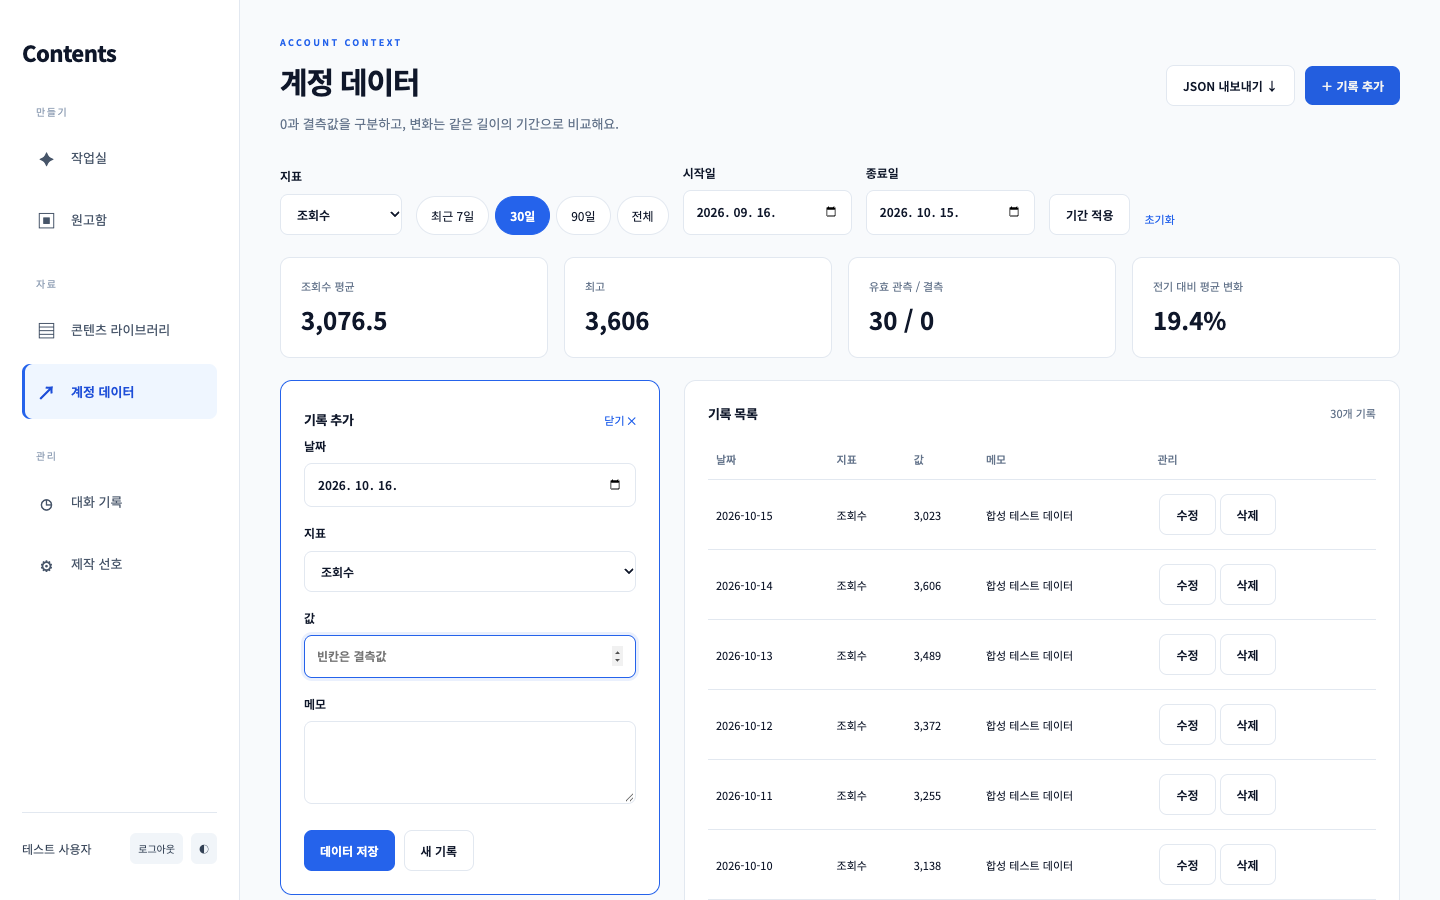
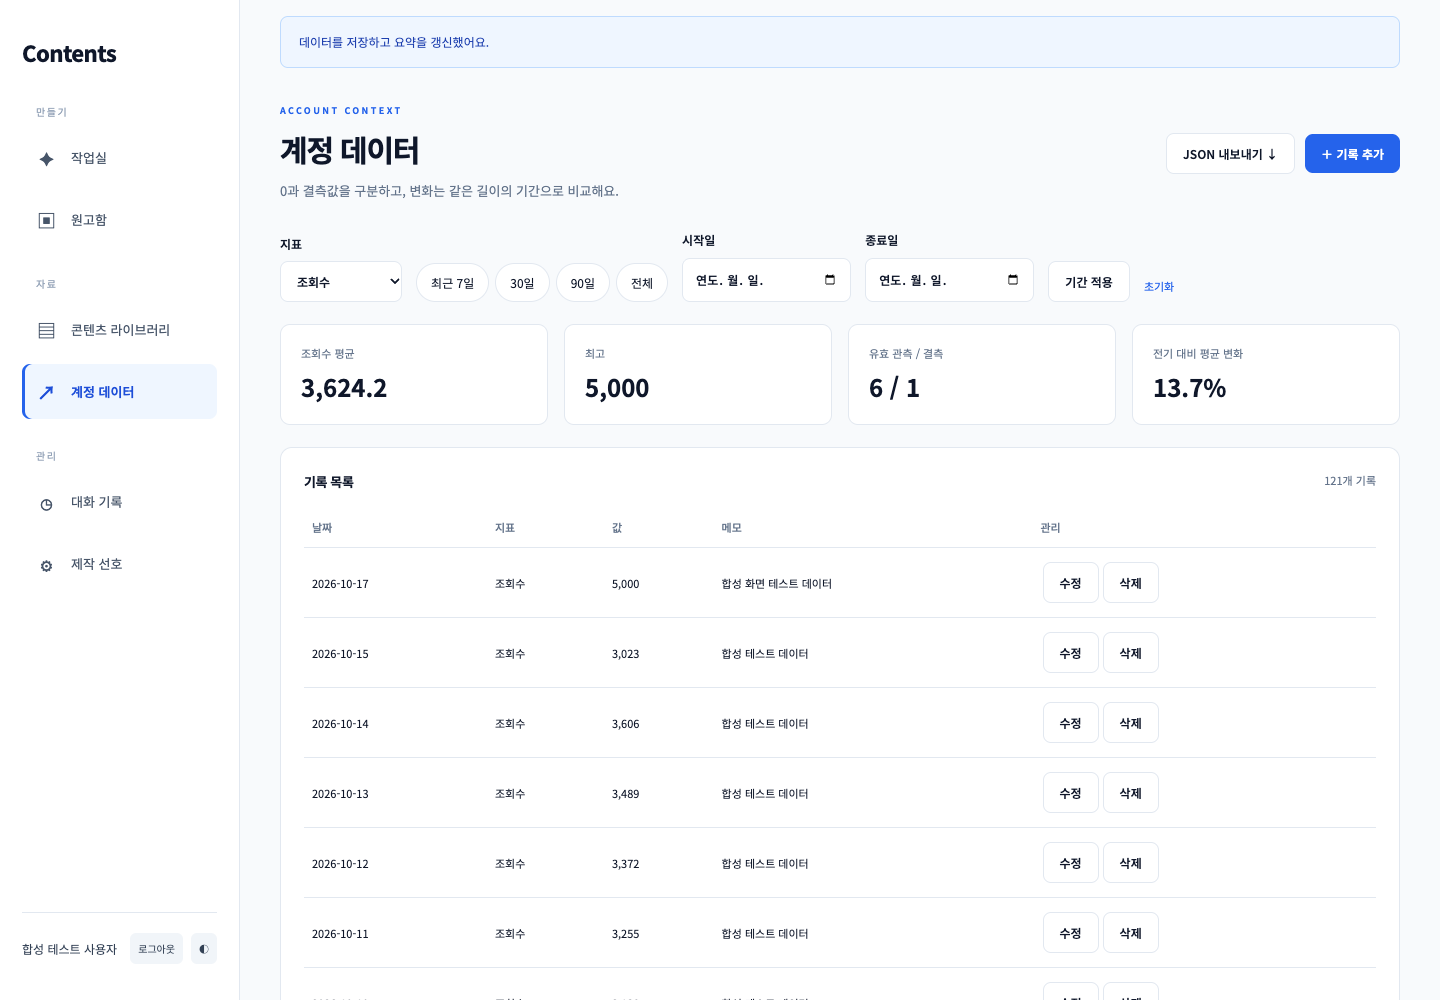
docs: 합성 데이터 제출 스크린샷 추가

diff --git a/README.md b/README.md
@@ -214,10 +214,28 @@ E2E는 임시 브라우저에서 `auth.js`만 대체합니다. 운영 코드에 
 프리뷰 도메인은 필요한 주소만 개별 허용합니다. 화면은 8초 이상 대기 시 콜드스타트 안내를 표시합니다.
 `/health`의 configured는 환경 변수 존재 여부이며 실제 서비스 연결 성공을 보증하지 않습니다.
 
-## 화면 예시 (합성 테스트 데이터)
+## 제출 스크린샷 (합성 테스트 데이터)
 
-아래 이미지는 합성 데이터·모의 모델을 사용한 로컬 테스트 화면이며 실제 개인 데이터나 실제 모델 응답은 포함하지 않습니다.
+아래 이미지는 새로 시작한 로컬 preview 서버의 메모리 저장소와 모의 모델로 촬영했습니다. 실제 Firestore 자료, 계정 지표, 실제 모델 응답은 포함하지 않으며 제품 동작 예시입니다.
 
-![작업실: 성과 상위 콘텐츠](docs/screenshots/studio.png)
+**1. 합성 계정 데이터 기반 채팅**
+
+![합성 데이터 요약을 반영한 채팅](docs/screenshots/chat.png)
+
+**2. 계정 데이터 기록 추가**
+
+![합성 테스트 기록 추가 후 목록](docs/screenshots/data.png)
+
+**3. 대화 기록 목록**
+
+![합성 테스트 대화 기록](docs/screenshots/history.png)
+
+**4. 대화 불러오기**
+
+![합성 테스트 대화 불러오기 결과](docs/screenshots/history-loaded.png)
+
+### 기타 화면 예시
+
 ![콘텐츠 라이브러리: 붙여넣기와 성과 입력](docs/screenshots/library.png)
+![작업실: 성과 상위 콘텐츠](docs/screenshots/studio.png)
 ![제작 선호: 클릭형 구성](docs/screenshots/preferences.png)
